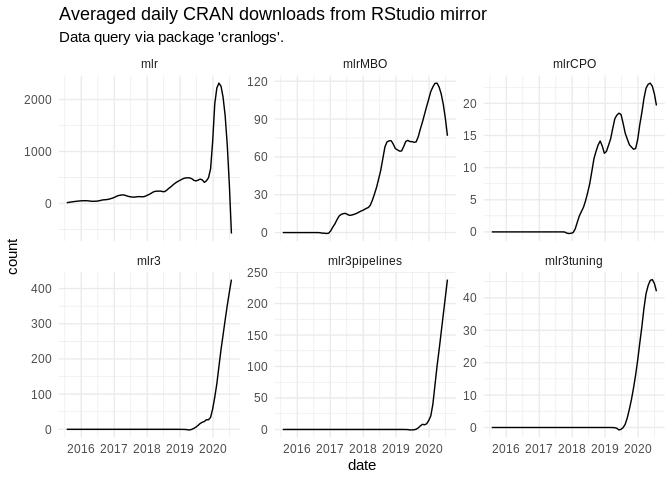
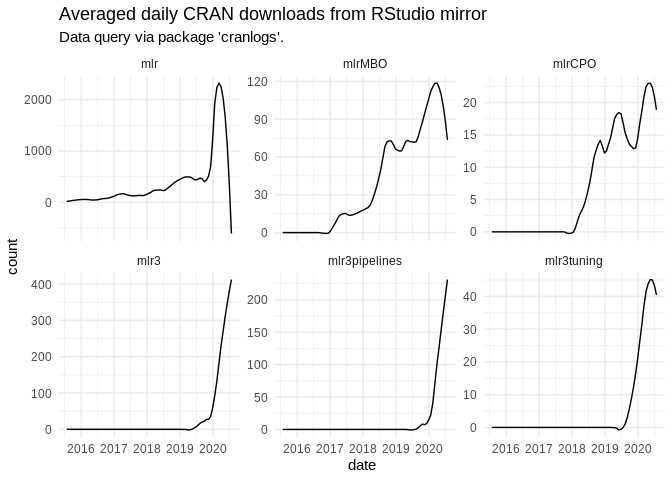
Deploy from Travis build 268 [ci skip]
Build URL: https://travis-ci.org/mlr-org/mlrcranlog/builds/711646056
Commit: 21b1d2502c67074c87afe45856fa29eb66e6ca57

diff --git a/README.md b/README.md
@@ -9,7 +9,7 @@
 
 Created on
 
-    ## [1] "2020-07-24"
+    ## [1] "2020-07-25"
 
 <details>
 
